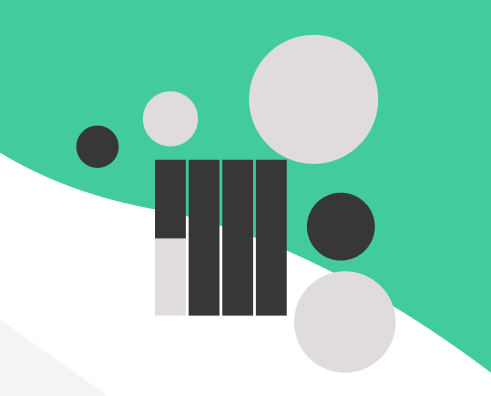
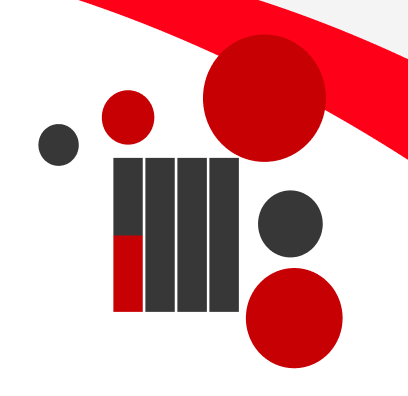
We'll just use folders instead of specific art

diff --git a/index.html b/index.html
@@ -139,15 +139,15 @@ layout: default
       </a>
       <a class="project" href="img/Portfolio/Design/mockup.jpg" target="_blank">
         <div class="hover-setup">
-          <h3>3D Mockup</h3>
-          <p>Here is the first mockup I made for the first version of the logo of Lygon.</p>
+          <h3>Studio Lygon X</h3>
+          <p>Check out all art pieces that have been created for Lygon X.</p>
         </div>
-        <img src="img/Portfolio/Design/mockup.jpg" alt="3D Mockup of the logo of Lygon.">
+        <img src="img/Portfolio/Design/lygon.png" alt="3D Mockup of the logo of Lygon.">
       </a>
-      <a class="project" href="#" target="_blank">
+      <a class="project" href="{{ site.baseurl }}{% link _posts/2021-8-5-Mactab.md %}" target="_blank">
         <div class="hover-setup">
           <h3>MACTAB Divisórias</h3>
-          <p>Publicity pieces for MACTAB's products.</p>
+          <p>Publicity pieces for MACTAB's products, plus the website.</p>
         </div>
         <img src="img/Portfolio/Design/3dpublicity.jpg" alt="Privacy Booth for Corporate Environment.">
       </a>
